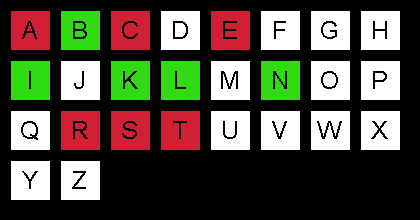
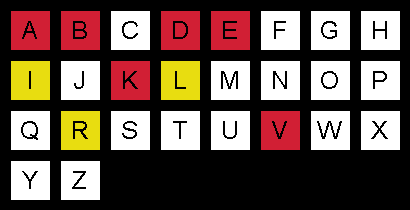
improved keyboard sizing

diff --git a/lazar-wordle-clone-backend-spring/src/main/java/com/lazar/lazarwordleclonebackendspring/service/UserTryService.java b/lazar-wordle-clone-backend-spring/src/main/java/com/lazar/lazarwordleclonebackendspring/service/UserTryService.java
@@ -48,10 +48,7 @@ public class UserTryService {
     }
     public Resource getKeyboardForUser(String username) {
         List<UserTry> userTries = getUserTries(username);
-        int width = 420;
-        int height = 220;
-        BufferedImage image = new BufferedImage(width, height, BufferedImage.TYPE_INT_RGB);
-        Graphics2D g2d = image.createGraphics();
+           
         int keySize = 40;
         int keySpacing = 10;
         Map<String, Color> colors = Map.of(
@@ -61,9 +58,15 @@ public class UserTryService {
             "W", new Color(255, 255, 255)
         );
         int fontSize = 25;
+
+        int keysPerRow = 8;
+        int keysPerColumn = 4;
+        int width = keysPerRow * (keySize + keySpacing) + keySpacing;
+        int height = keysPerColumn * (keySize + keySpacing) + keySpacing;
+        BufferedImage image = new BufferedImage(width, height, BufferedImage.TYPE_INT_RGB);
+        Graphics2D g2d = image.createGraphics();
         Font font = new Font("SansSerif", Font.PLAIN, fontSize);
         g2d.setFont(font);
-        int keysPerRow = width / (keySize + keySpacing);
         int keysInCurrentRow = 0;
         int x = 10;
         int y = 10;
